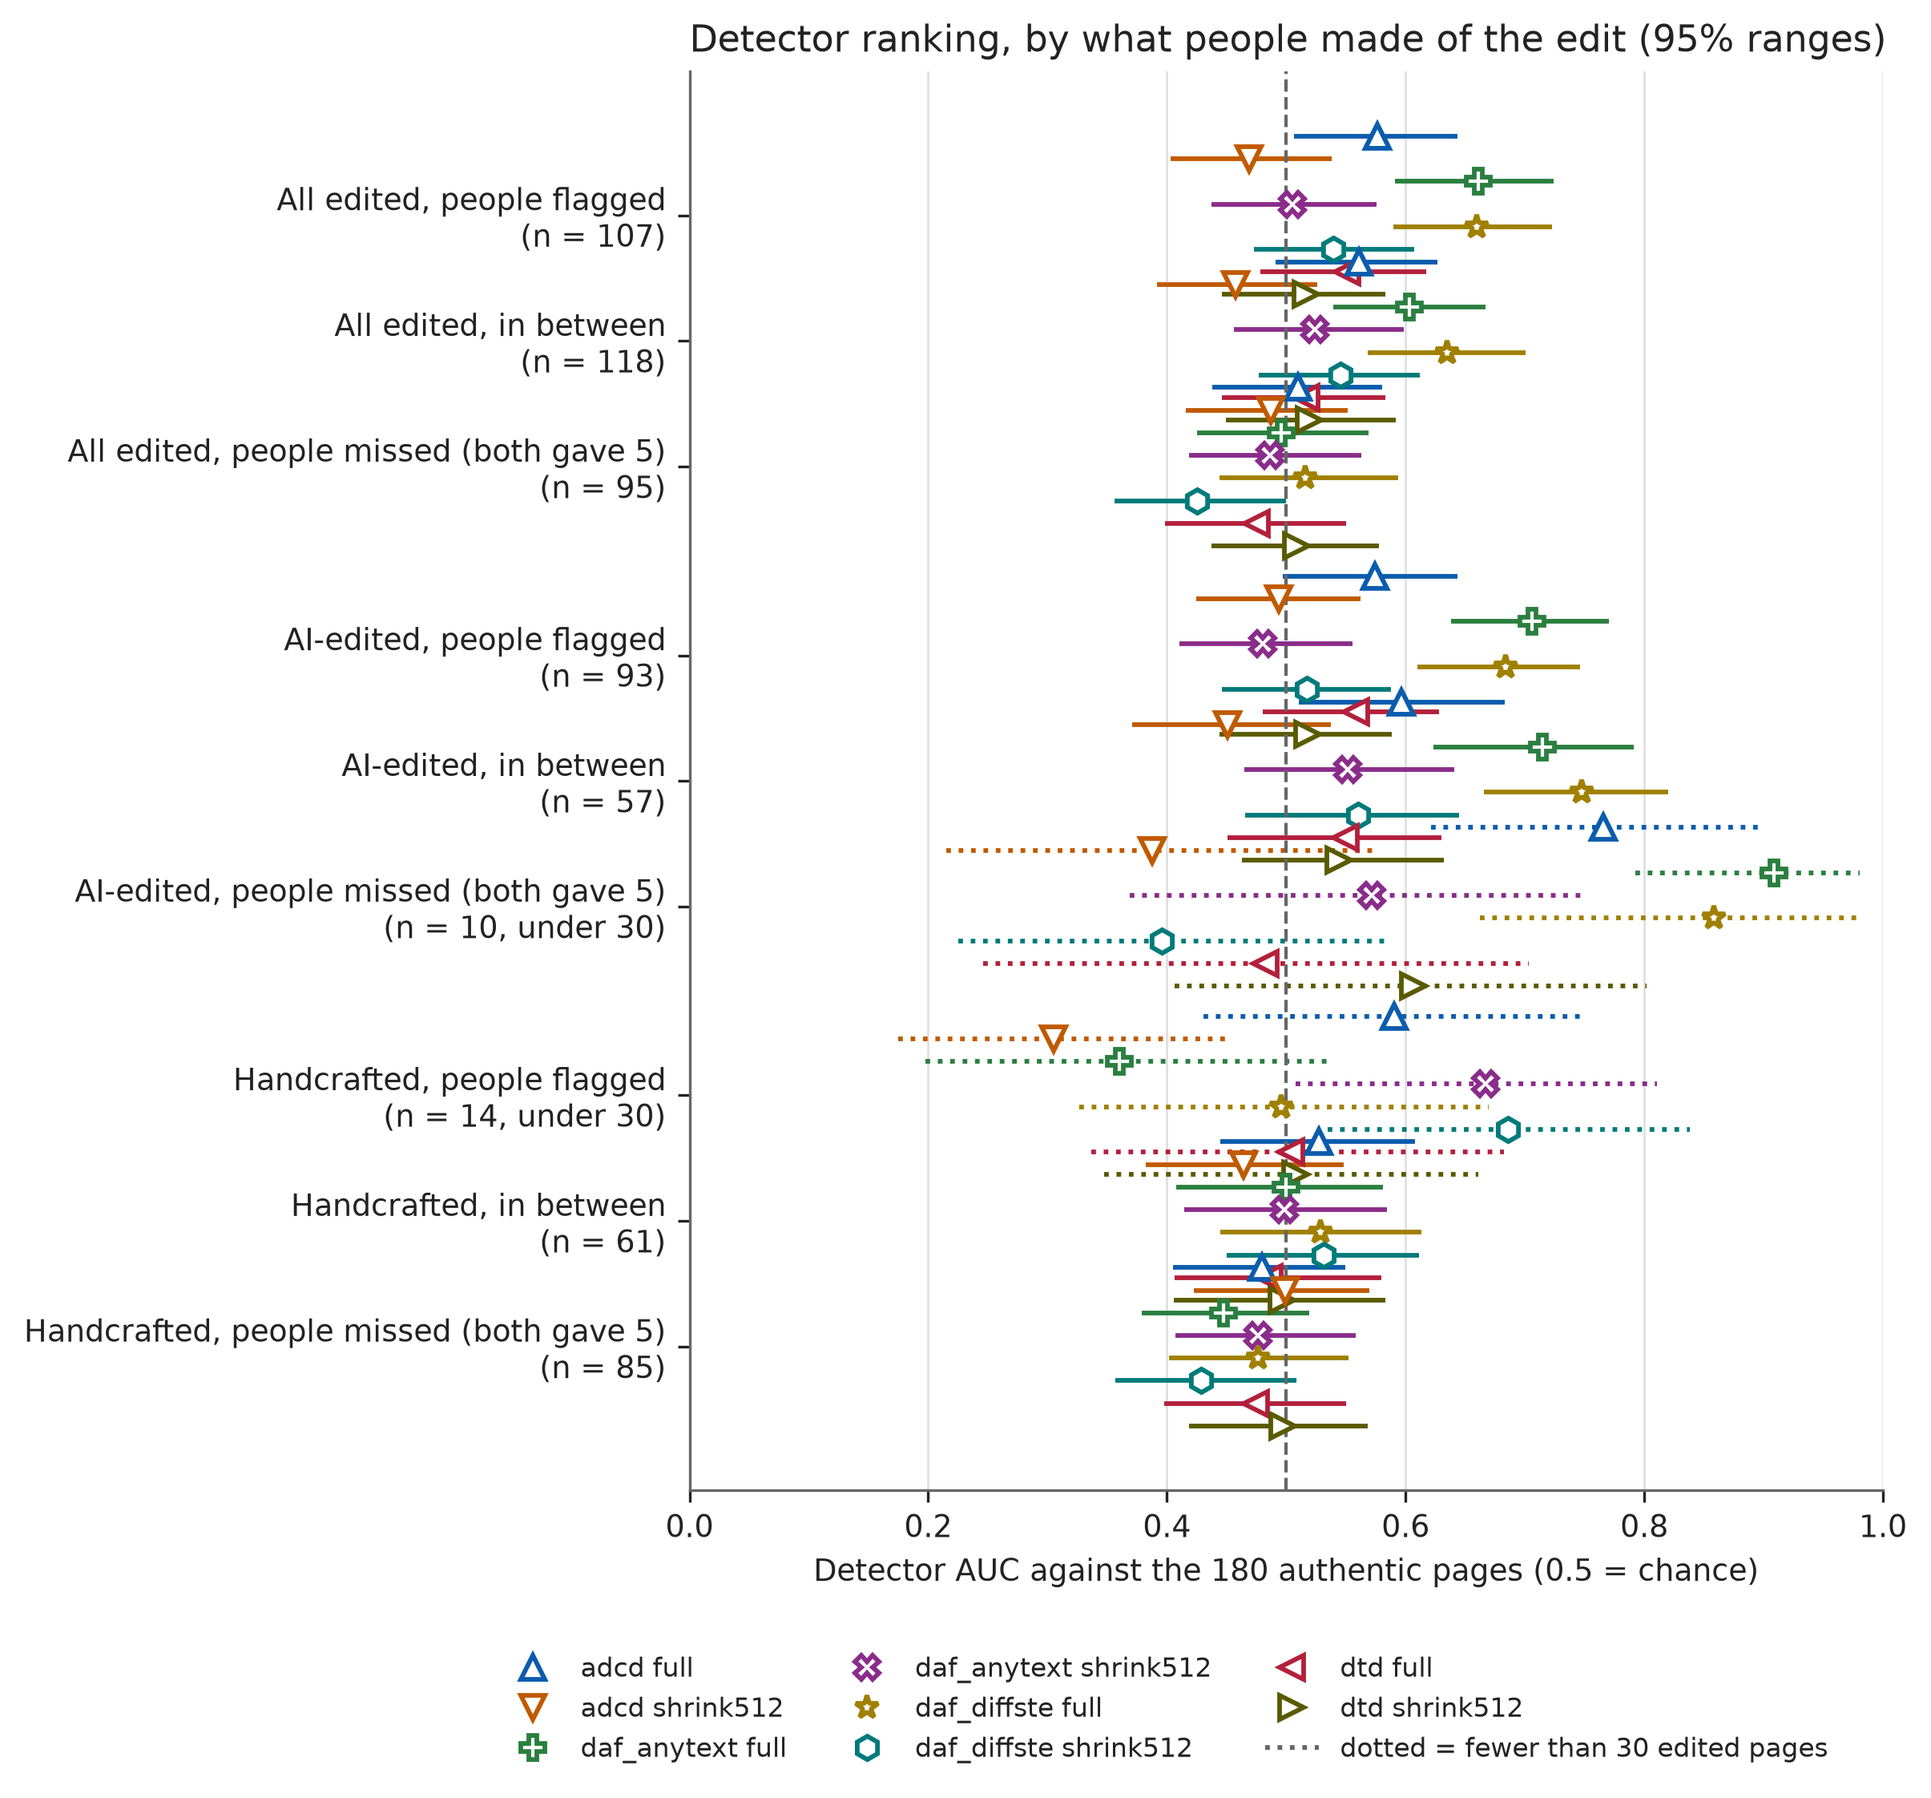
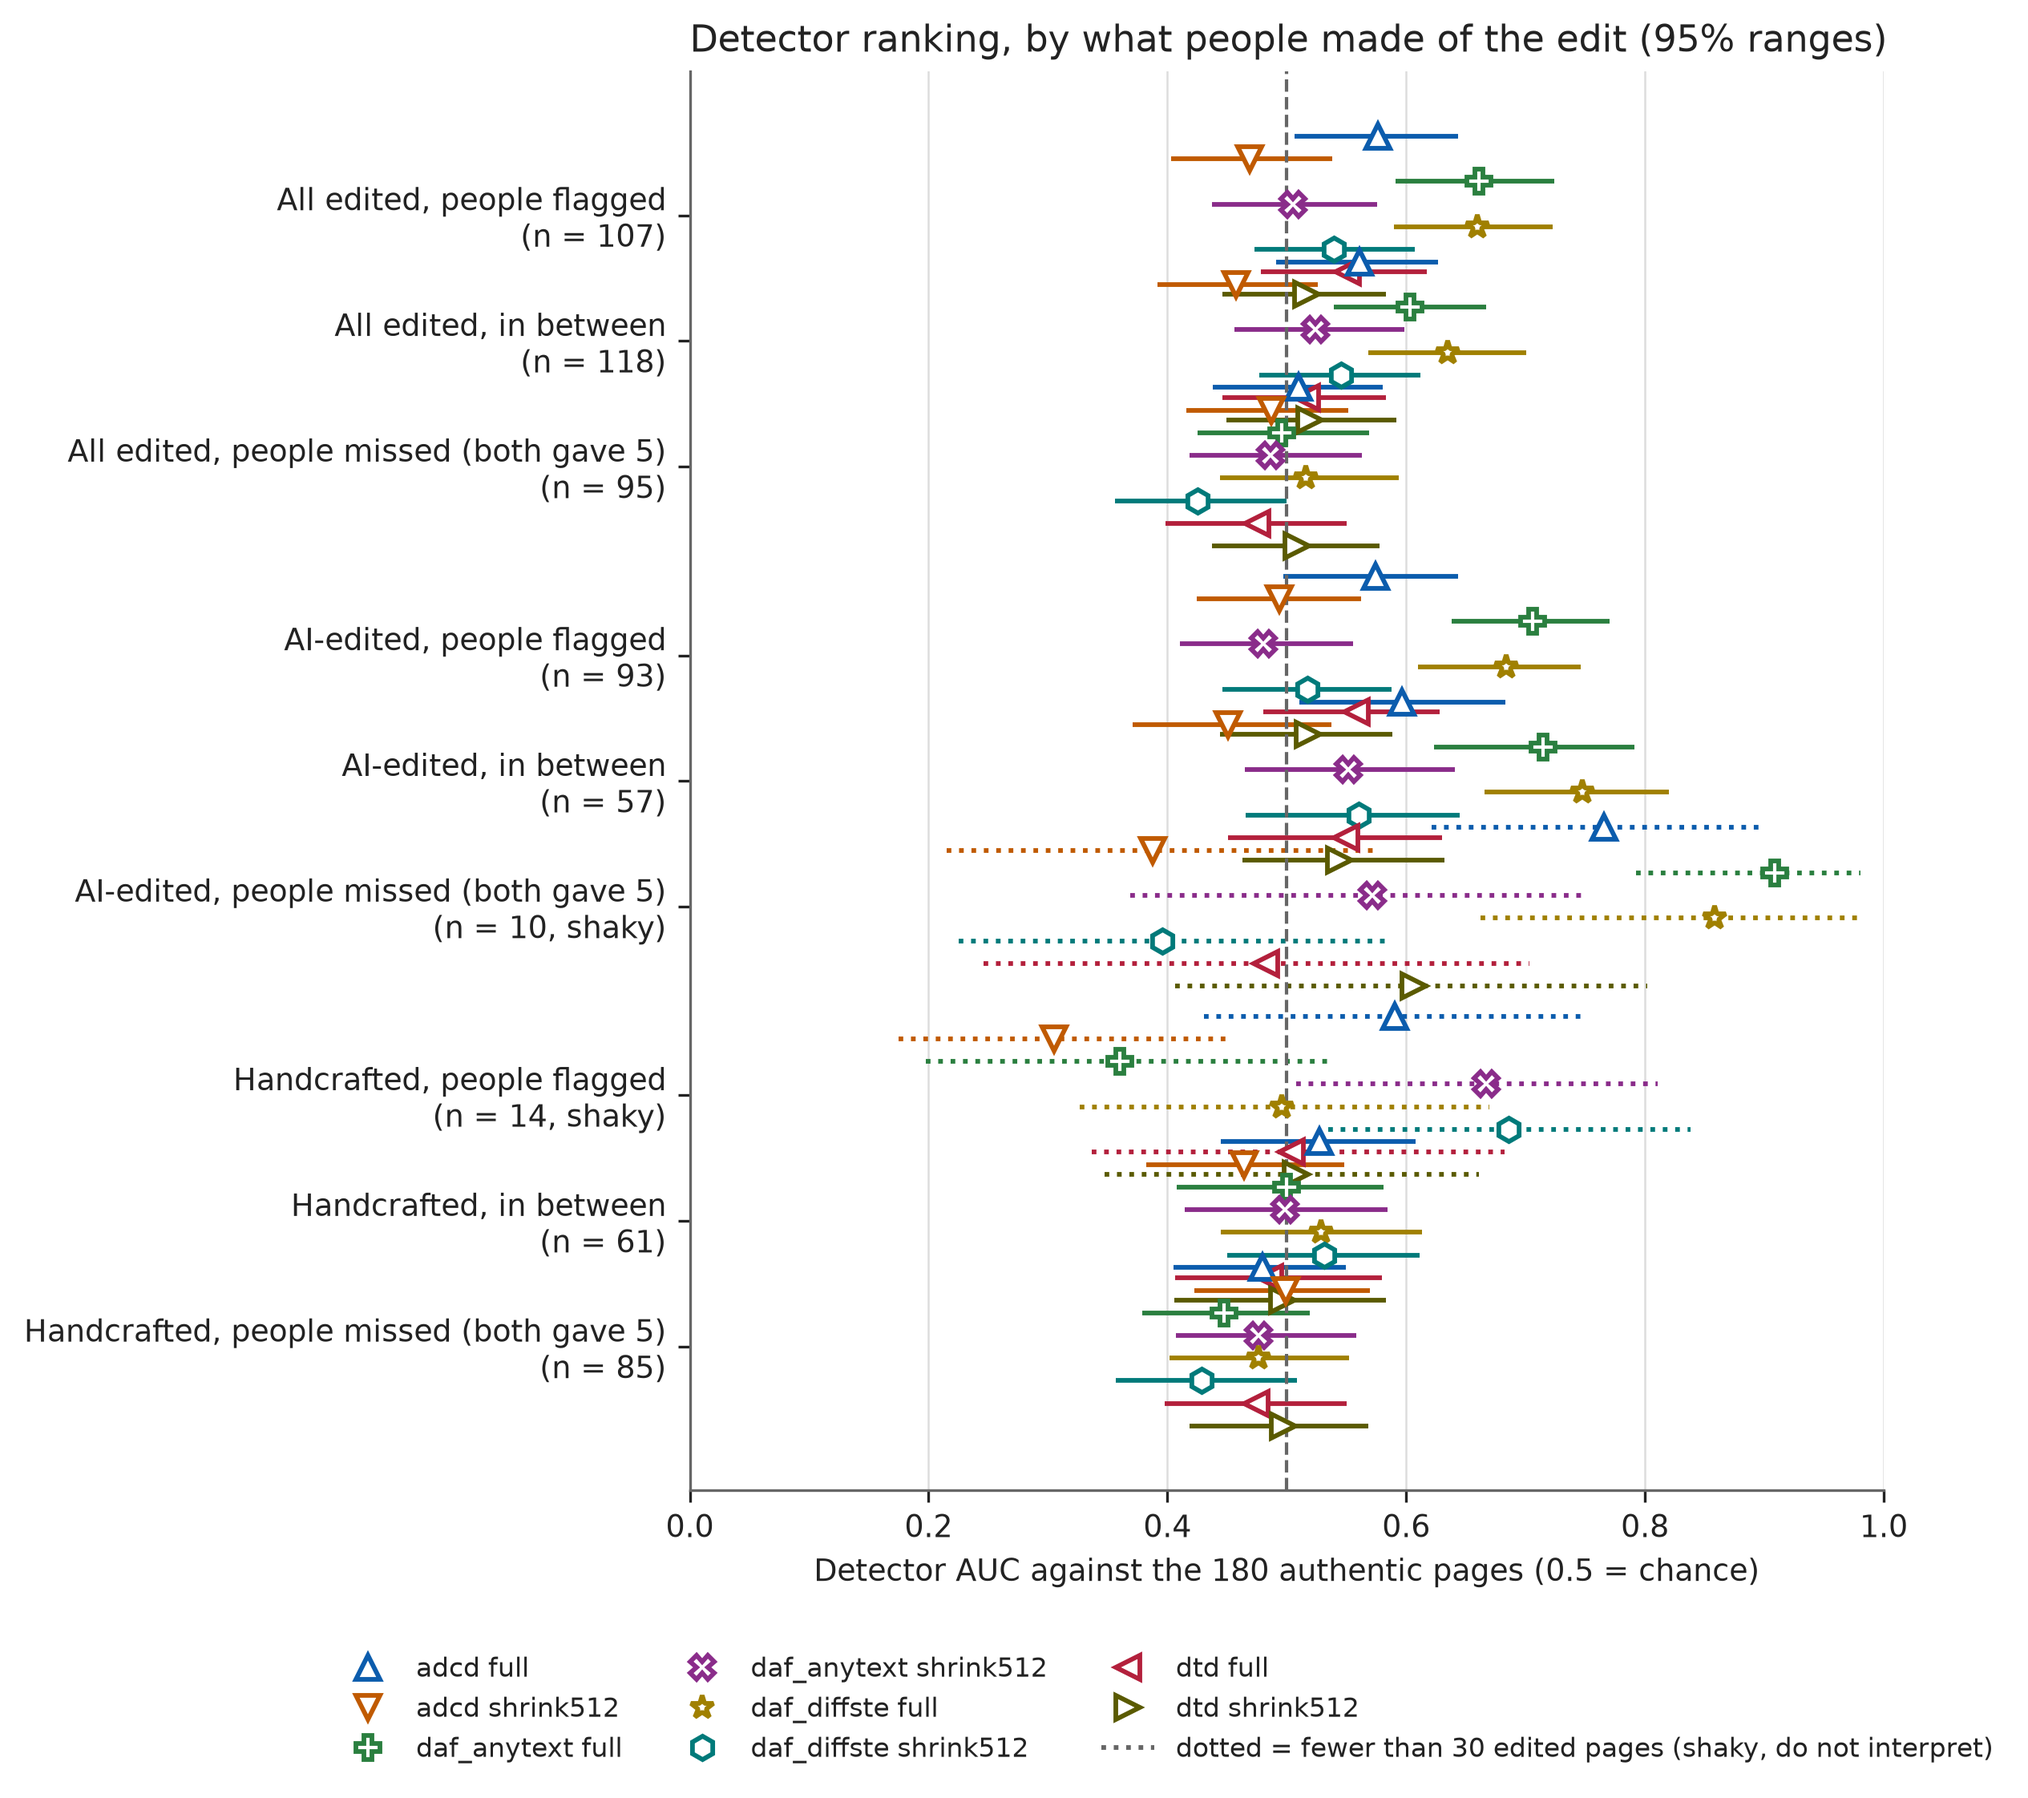
T49: drop shared workspace name from decisions; label small-n people-missed rows as shaky in chart 2 and README

diff --git a/analysis/human/make_figures.py b/analysis/human/make_figures.py
@@ -125,7 +125,7 @@ def figure_by_people(path):
                            det_styles[f"{det}_{size}"], f"{det} {size}" if (scope, verdict) == ("edited", verdicts[0]) else None,
                            small=small)
             ticks.append(y)
-            labels.append(f"{scope_label}, {VERDICT_LABEL[verdict]}\n(n = {r['n_edited']}{', under 30' if small else ''})")
+            labels.append(f"{scope_label}, {VERDICT_LABEL[verdict]}\n(n = {r['n_edited']}{', shaky' if small else ''})")
             y += 1.0
         y += 0.5
     ax.axvline(0.5, color=MUTED, linewidth=1, linestyle="--")
@@ -139,7 +139,7 @@ def figure_by_people(path):
     # Legend: the detector sizes plus a proxy line explaining the dotted ranges.
     handles, names = ax.get_legend_handles_labels()
     handles.append(Line2D([0], [0], color=MUTED, linestyle=":", linewidth=1.4))
-    names.append("dotted = fewer than 30 edited pages")
+    names.append("dotted = fewer than 30 edited pages (shaky, do not interpret)")
     # Legend sits below the plot so it never covers a point.
     ax.legend(handles, names, loc="upper center", bbox_to_anchor=(0.4, -0.1), ncol=3, fontsize=8, frameon=False, labelcolor=INK)
     fig.tight_layout()

diff --git a/docs/decisions.md b/docs/decisions.md
@@ -41,7 +41,7 @@ One dated line per method choice, result-changing fix, plan change or run proble
 - 2026-11-19 (T20, Abby): The ablation adds rule B and AUC by importing the T11 functions in `shared/score.py` (`document_folds`, `crossfit_rule_b`, `auc`, `compute_metrics`, `resample_indices`); nothing is copied. Per cell, the pages are one edit version's tampered pages plus the untouched pages of the same detector, weights, size, format and set; the 2-fold split uses one split of documents for all cells (seed 42), and the bootstrap (1,000 resamples, seed 42) resamples documents with the rule B predictions fixed, as T11 does. Chosen over its own rule B copy. Limitation: with so few untouched pages per cell (49 or 100), cut-offs and ranges are rough.
 - 2026-11-19 (T20, Abby): For the ablation, one page ID is one document (149 documents), so the 2-fold split and the 1,000-resample bootstrap (seed 42) treat each ID as one unit and take all of its rows together, which also keeps the 49 pages shared by AnyText and DiffSTE together. Chosen over resampling single rows, which would split a page from itself. Limitation: assumed from the page IDs, since the safe files have no document ID.
 - 2026-11-19 (T20, Abby): The ablation was run with Anaconda Python (numpy 2.4.6, scipy 1.18.0), not the versions pinned in `shared/requirements.txt` (1.26.4, 1.13.1), because the system Python has neither package.
-- 2026-11-19 (T12, Abby): The Volume `a4-data` was created in the shared Modal workspace (dylanlerhj), which other MYSSP teams can see. Jia Yu approved running our experiments there on 19 Nov on the condition that we delete our data afterwards. Only the pages (`pages/<page_id>.<ext>`) and the anonymous `meta/sample.csv` were uploaded; `sample_map.csv` (real file names) was held back and stays on Abby's Mac, since nothing needs it before T49. Chosen over keeping our data on a private workspace, which the team does not have. Limitation: other teams can see the workspace, so no page is copied out of the Volume or stored elsewhere, and the Volume is deleted once outputs are copied to the team's computers.
+- 2026-11-19 (T12, Abby): The Volume `a4-data` was created in the shared Modal workspace, which other MYSSP teams can see. Jia Yu approved running our experiments there on 19 Nov on the condition that we delete our data afterwards. Only the pages (`pages/<page_id>.<ext>`) and the anonymous `meta/sample.csv` were uploaded; `sample_map.csv` (real file names) was held back and stays on Abby's Mac, since nothing needs it before T49. Chosen over keeping our data on a private workspace, which the team does not have. Limitation: other teams can see the workspace, so no page is copied out of the Volume or stored elsewhere, and the Volume is deleted once outputs are copied to the team's computers.
 - 2026-11-19 (T12, Abby): Pages are uploaded in batches of 100 (up to 3 tries each, overwriting allowed), then checked against the local files by file name and byte size, and against sample.csv by page ID. Why: a single 1,650-file batch dropped its connection after about 5 minutes and left only the 3 test pages on the Volume; nothing was half-written. Chosen over one big batch, which failed. No result is affected.
 - 2026-11-19 (T13, Abby): The full-size tiling is rebuilt as functions (`detectors/adcd/tiling.py`) from cell 25 of the Week 7 notebook 2A, because the original used notebook globals and the old `cut_and_join.py` was not kept. Same rules: 512x512 pieces on a grid from (0,0), no overlap, white (255) padding right and bottom for the page, 0 for the text mask, pieces joined back and the padding cropped. Checked only with random test arrays (round trip is exact), not against the Week 7 outputs. Limitation: an edit across a tile border is split between two tiles.
 - 2026-11-19 (T13, Abby): PaddleOCR text masks are generated fresh for every new page (PP-OCRv5_server_det, polygons with score > 0.5 filled, oneDNN off, CPU, 20 pages per call), one page-sized mask per page used for both sizes and cut on the same grid as the page for `full`. Chosen over reusing Week 5/7 masks, which cover other pages. PaddleOCR and PaddlePaddle versions are not pinned (they were not in Week 7); they are logged in `adcd_work/ocr_logs/`. Limitation: a newer PaddleOCR could detect text slightly differently from Week 7.
@@ -92,3 +92,4 @@ One dated line per method choice, result-changing fix, plan change or run proble
 - 2026-11-20 (T17, Alycia): The DTD top-score spread analysis (`analysis/dtd/top_score_spread.py`) reads only the private compact `.npz` outputs (each page's `top` value) and the group and file-format columns of `sample.csv`, never a page; its numbers are quoted in `results/dtd/SUMMARY.md` but are not stored in a results file. The link between PNG pages sitting at the top of the score band at full size and the quality-100 re-save is a suggestion, untested: no run changed the re-save, and the full run's re-save counts are unconfirmed (see the T14 line of 20 Nov on `run_info.json`).
 - 2026-11-20 (T49, Abby): T49 was rerun with DTD and DAF added to ADCD-Net, reading the compact .npz outputs (not run_log.csv) of all four detector folders (adcd, dtd, daf_anytext, daf_diffste), each at shrink512 and full. DAF's two weights (AnyText, DiffSTE) are two detectors shown on their own, never pooled into one DAF number, because they are different trained weights with their own results/ folders. Every detector's rule B was rebuilt on all 1,650 pages with shared/score.py and matched its results/<detector>/scores.csv (largest difference under 5.1e-07) before use; the ADCD rows, the people rows and edit_found_rates are unchanged from the first T49 run. The chart legends were changed to give each of the 8 detector/size series its own marker and colour, with chart 2's legend moved below the plot. Chosen over pooling the DAF weights or leaving DTD out. Limitation: with eight series per row the second chart is crowded, so its values are best read from detector_auc_by_people.csv.
 - 2026-11-20 (T19, Abby): The three cross-detector charts (`analysis/figures/make_figures.py`) were redrawn for four detectors at two sizes: legends moved outside the plot area so they cannot hide a point or a range, and page counts written once under the location chart. The rule B chart gets a second panel zoomed to the smallest square holding every point and range, next to the full 0 to 1 square, because all eight points overlap in the full square. Chosen over a single 0 to 1 panel, which was unreadable, and over a log or broken axis. Limitation: the zoomed panel has different axis limits from the full panel, so distances in it are not comparable to the full square.
+- 2026-11-20 (T12, Abby): The name of the shared Modal workspace was removed from this file because the repo is public; the line now says only "the shared Modal workspace". The chart legend and README wording for small-n results were also made explicit (shaky, do not interpret). No method or result changed.

diff --git a/analysis/human/README.md b/analysis/human/README.md
@@ -18,7 +18,7 @@ Needs numpy, scipy (see `shared/requirements.txt`) and matplotlib for the charts
 
 ## Tables in `results/human/` (numbers only, no page IDs)
 
-Every number has its 95% range (1,000 bootstrap resamples of documents, seed 42) and its n. `small_n = True` means fewer than 30 pages, so the range is shaky.
+Every number has its 95% range (1,000 bootstrap resamples of documents, seed 42) and its n. `small_n = True` means fewer than 30 pages, so the range is shaky. In `detector_auc_by_people.csv` the "people missed" rows for AI edits rest on only 10 pages (both raters gave a 5): they are shaky, suggest nothing firm and should not be interpreted, even where an AUC looks high.
 
 | File | What it holds |
 |---|---|
